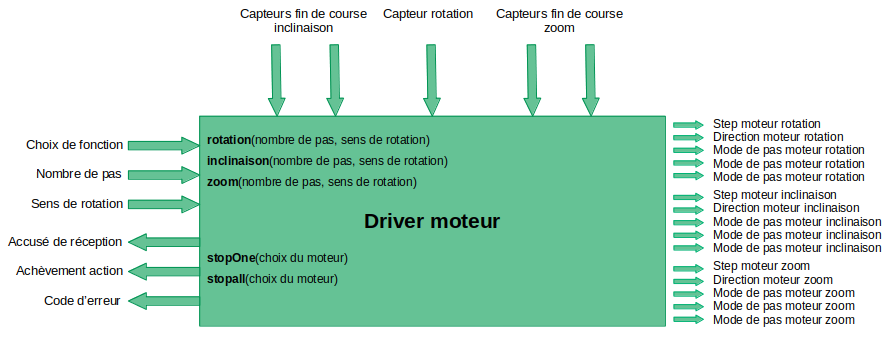
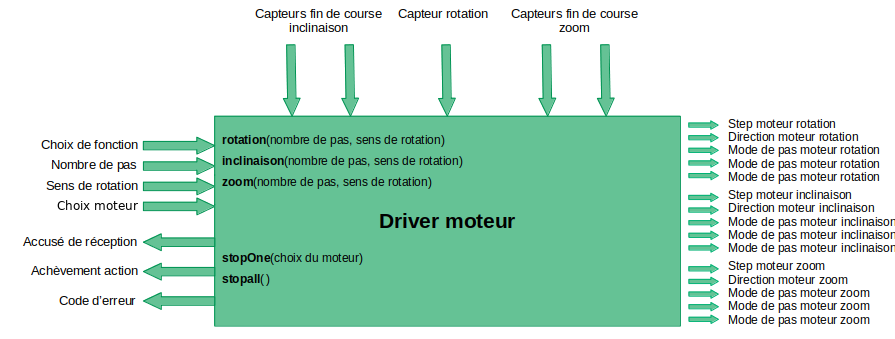
Edit Part Abgrall

diff --git a/Compte Rendu 6/Chapters/Abgrall/Chapter2.tex b/Compte Rendu 6/Chapters/Abgrall/Chapter2.tex
@@ -18,33 +18,36 @@ Le driver moteur a pour mission de permettre de contrôler les moteurs de rotati
 
 \vspace{1cm}
 
-La figure 9.1 représente le driver contrôlant les moteurs. À gauche du block il y a les entrées du driver, se sont les données que attent le driver pour entreprendre une action. \newline 2 exemples: 
+La figure 9.1 représente le driver contrôlant les moteurs. À gauche du block il y a les entrées et les sorties du driver d'un point de vue informatique. \newline Les entrées regroupe l'ensemble des données que attent le driver pour entreprendre une action, nous retrouvons de se fait, le choix de l'action à réaliser, le nombre de pas à parcourir, et le sens de rotation et le choix du moteur. Les choix des actions à faire sont en gras à l'intérieur du block Driver. Comme vous pouvez le voire toutes les actions n'ont pas besoin de toutes les informations demander en entrées (comme l'action StopOne), dans ces cas seules les entrées necessaires seront prises en comptes.\newline Concernant les sorties informatiques, il y a l'acquitement de réception qui à pour but de rassurer l'application en lui indiquant se qu'il a reçu, ainsi l'application peut vérifier que les données envoyé sont correctes. Si il y a une erreur de communication l'application demande l'arret des moteurs et renvoi l'ordre ajusté (en prenant en compte le déplacement qui à été effectué dans l'erreur). Nous trouvons ensuite l'achèvement d'action, lorsque une action arrive a son therme (rotation, inclinaison, ...) le driver l'indique à l'application pour quelle que l'ordre est terminé, ainsi si jamais il y a un ajustement à effectuer elle r'enverra un ordre pour bien être placé. Et pour fini se coté informatique, il y a le retour de code d'erreur qu'il survient lorque une incident arrive dans le driver (ressource inaccessible (pin, timer, interrruption), probleme de fermeture driver ou d'ouverture, ...). \newline
+Sur le dessus du driver nous trouvons 5 entrées (matérielles) capteurs. Chacun d'eux préviens de l'arrivé en buté d'un axe, hors pour le capteur rotation qui indique juste le position du télescope en rotation lorqu'il est activé. \newline Ce capteur à deux rôles, durant la phase de dévellopement il nous permettra de déterminer le nombre exact et réel du pas pour un tour complet du télescope (se qui permettra de dévelloper l'algorithme de positionnement du télescope dans l'application pricipale). Le second rôle, plus tard, sera de faire du requalibrage de la centrale inertielle en cas de récallage entre entre les résultats ce capteur et la centrale inertielle. \newline
+Au final à droite du block nous trouvons les sorties (matérielles) du driver. Ces dernières répètent le même pour chaqu'un des 3 moteurs: une pin pour le front montant pour lancer un pas moteur, le sens de rotation (0 ou 1), et 3 pins pour le choidu mode pas de rotation du moteur (pas complet, demi-pas, ...). \newline
+  
+ \newline 2 exemples de fonctionnement du driver avec ces entrées/sorties: 
 \begin{itemize}
-	\item Faire tourner le zoom de 50 pas de droite à gauche:
+	\item Faire tourner le zoom de 50 pas dans le sens horaire:
 	\begin{enumerate}
-		\item Envoi au driver les nombres 3 ; 50 ; 0 pour choisir la fonction zoom, nombre de pas, sens de rotation droite à gauche;
-		\item Reception de l'accusé de réception contenant les nombres 3 ; 50 ; 0 ;
-		\item Reception de l'achèvement d'action contenant le nombre 1.
+		\item Reception des nombres de l'application [ 3 ; 50 ; 0 ] pour choisir la fonction zoom, nombre de pas, sens de rotation horaire;
+		\item Envoi de l'accusé de réception, à l'application, contenant les nombres 3 ; 50 ; 0 ;
+		\item Execution de la fonction zoom avec les données ( 3 50 0 ) en argument.
+		\item Ecrit dans la sorte du moteur zoom sens de rotation: 0.
+		\item Ecrit en sortie de mode de pas du moteur zoom la configuration pour faire des pas complet. 
+		\item Creer un timer qui va permettre de créer un front montant, tant que l'on n'a pas atteint le nombre de pas à parcourir.
+		\item Si l'on a parcour tous les pas complet et qu'il faut réaliser des pas plus fins, pour atteindre au plus près l'angle demandé, on change le mode de pas en 16ème de pas. 
+		\item Une fois tous les 16ème de pas éffectué on envoi de l'achèvement d'action contenant le nombre 1.
+		\item Le driver réinitialise ses variables et ressources (timer,...).
+		\item Mise en attente d'un nouvelle ordre, la boucle et bouclé.
 	\end{enumerate}
 	\item Arreter tout les moteurs
 	\begin{enumerate}
-		\item Envoi au driver le nombre 5 pour choisir la fonction stopall
-		\item Reception de l'accusé de réception contenant le nombre 5;
+		\item Envoi au driver le nombre 5 pour choisir la fonction stopall.
+		\item Reception de l'accusé de réception contenant le nombre 5.
+		\item Réinitalise les variables et ressources.
 		\item Reception de l'achèvement d'action contenant le nombre 1.
 	\end{enumerate}
 \end{itemize}
 
-\begin{figure}[H]
-    \centering
-    \includegraphics[width=1\linewidth]{\figures/illustration_entree_sortie_driver_moteur.png}
-    \decoRule
-    \caption[
-    Schéma des entrées / sorties du driver moteur]{
-    Schéma des entrées / sorties du driver moteur}
-    \label{fig:Schéma des entrées / sorties du driver moteur}
-    \end{figure}
 
-Une fois une manoeuvre terminé le driver informe l'application principale que l'action demandé est arrivé à son terme. Cependant d'un point de vue driver moteur il y a pas de possibilité de vérifier si le télescope est bien placer là où on lui a demander de ce placer. Si une personne ou objet block le mouvement du telescope ou des moteurs ces derniers ne renvairons pas d'avertissement. C'est dont la centrale inertielle qui contrôlera le bon placement du télescope. \newline
+Une fois une manoeuvre terminé le driver informe l'application que l'action demandé est arrivé à son terme. Cependant d'un point de vue driver moteur il y a pas de possibilité de vérifier si le télescope est bien placer là où on lui a demander de ce placer. Si une personne ou objet block le mouvement du telescope ou des moteurs ces derniers ne renvairons pas d'avertissement. C'est dont la centrale inertielle qui contrôlera le bon placement du télescope. \newline
 Les capteurs de fin de course servent de sécurité, cette partie est indépendante du reste. Elle a pour but d'arrêter un moteur qui à atteint sa position maximale, hormis pour le capteur de rotation qui à pour utilité dans un premier temps de faire une interruption lorsque un tour complet. \newline Avec cette information on pourra déterminer le nombre de pas moteur qu'il faut faire pour faire un tour complet de télescope sur lui même. Et dans un second temps de donner un point de repère pour les recalibrages de la centrale inertielle. \newline 
 Les sorties "Mode de pas moteur..." permettent de choisir dans quel mode de rotation doit tourner le moteur (pas complet, demi-pas, quart de pas, huitième de pas, seizième de pas). Augmenter la division de pas permet d’affiner la rotation afin d’atteindre l’angle le plus exact possible à ce qui à été commandé. Ainsi lorsqu'un moteur a accomplie environ 90\% de la distance à réalisé, on change le mode de pas afin d'arriver au plus proche de l'angle exacte.   
 
@@ -52,11 +55,14 @@ Les sorties "Mode de pas moteur..." permettent de choisir dans quel mode de rota
 
 \section{Interactions avec le driver}
 
-Le driver devra pourvoir être utilisé à partir d'une application situé dans le user-space du linux embarqué. Pour cela j'ai étudié et testées plusieures solutions. \newline
+Le driver est utilisé à partir d'une application situé dans le user-space du linux embarqué. Pour cela j'ai étudié et testées plusieures solutions. \newline
 La première qui m'est venu à l'idée était d'utiliser l'IPC (inter process communication). \newline
 Une seconde plus archaïque m'est venu à l'idée, celle de partager un ficher entre le programme dans le user-space et du driver. Pour que le programme dans le user-space puisse transférer ses ordres. Cependant je trouve cette solution pas très sécuritaire. \newline
 La troisième solution qui m'a été proposé par Vincent Poulailleau est d'utiliser la fonction ioctl. C'est cette solution que j'ai retenu car elle est une technique très rodé dans le domaine car elle était déjà utilisé à la version 7 d'UNIX. 
 \vspace{1cm}
+
+\section{Intégration du driver}
+Pour que le driver soit utilisable dans le linux embarqué Yocto, j'ai créé deux recettes. L'une viens cherche dans le github du projet le a4988.c (code du driver) et sa librarie (header) header.c , cette recette permet l'importation du driver lors du build du Yocto (avec la commande bitbake). \newline La seconde recette permet d'ajouter l'application d'interface avec le driver dans le user-space du Yocto. Pour lancer l'application dans le Yocto dans la raspberry il suffira d'écrire dans le terminal (de la cible) le nom de l'application: a4988-test \newline 
 
 \section{Validation des fonctionnalitées de bases}
 
